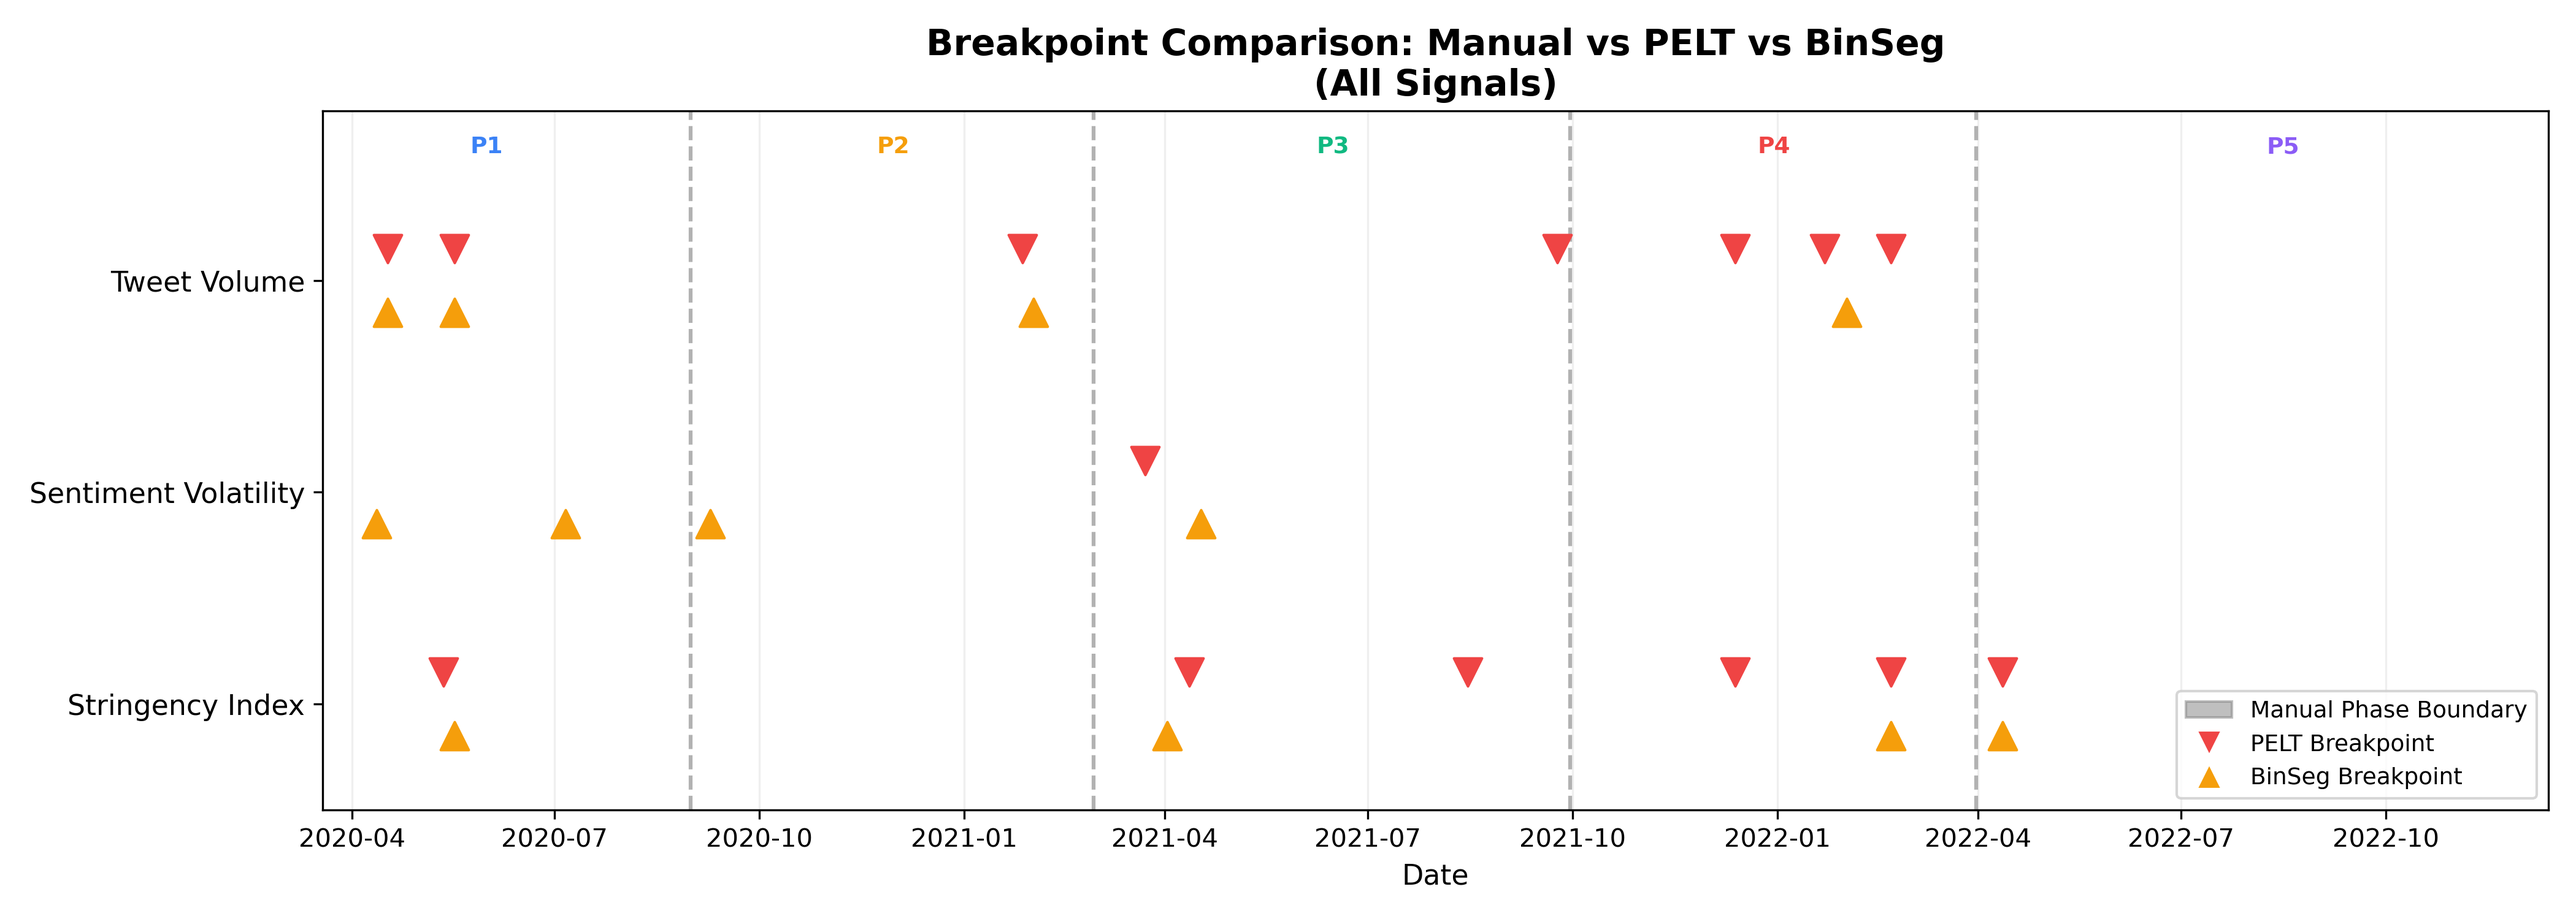
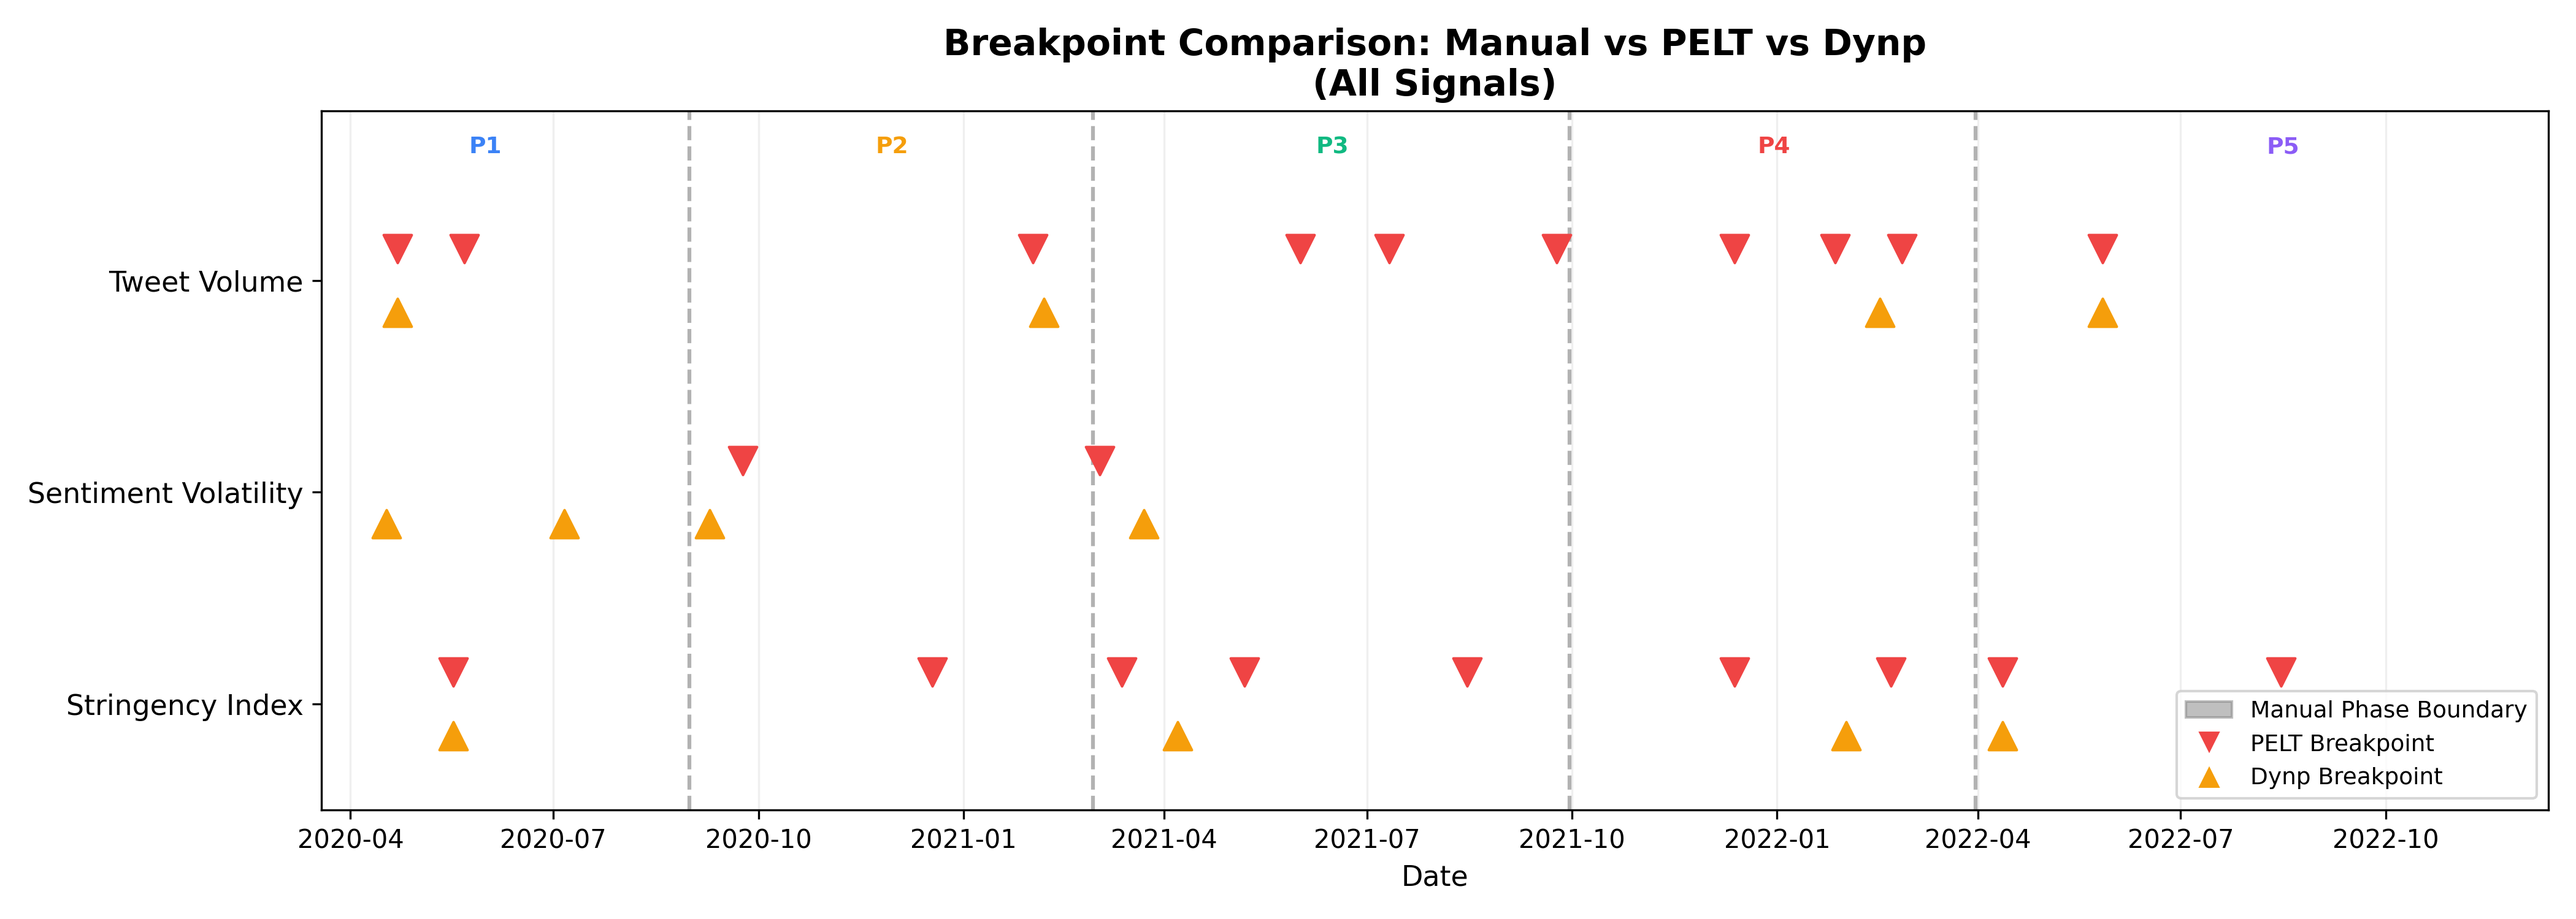
fixed kwargs

diff --git a/code/data_exp/partb.py b/code/data_exp/partb.py
@@ -43,22 +43,22 @@ PHASE_COLORS = ['#3b82f6', '#f59e0b', '#10b981', '#ef4444', '#8b5cf6']
 # algorithm — without this, day-of-week spikes and viral outliers dominate
 # the cost function and swamp the real regime shifts.
 # Volatility and stringency are already bounded, so left as-is.
-tv_filled   = df[volume_col].fillna(method='ffill')
+tv_filled   = df[volume_col].ffill()
 tv_smoothed = tv_filled.rolling(window=7, min_periods=1).mean().values
 tv_log      = np.log1p(tv_smoothed)
 
 # What gets fed to the changepoint algorithm
 detection_signals = {
     'Tweet Volume':          tv_log,
-    'Sentiment Volatility':  df[vol_col].fillna(method='ffill').values,
-    'Stringency Index':      df[policy_col].fillna(method='ffill').values,
+    'Sentiment Volatility':  df[vol_col].ffill().values,
+    'Stringency Index':      df[policy_col].ffill().values,
 }
 
 # What gets shown in the plots (original units, for readability)
 display_signals = {
     'Tweet Volume':          tv_smoothed,  # 7-day MA, raw units
-    'Sentiment Volatility':  df[vol_col].fillna(method='ffill').values,
-    'Stringency Index':      df[policy_col].fillna(method='ffill').values,
+    'Sentiment Volatility':  df[vol_col].ffill().values,
+    'Stringency Index':      df[policy_col].ffill().values,
 }
 
 # ── 4. PELT (penalty-tuned, number of breaks unknown a priori) ──────────────

diff --git a/code/data_exp/pattern_recogn.py b/code/data_exp/pattern_recogn.py
@@ -16,7 +16,7 @@ from sklearn.metrics import (classification_report, confusion_matrix,
                               ConfusionMatrixDisplay, roc_auc_score)
 
 # ── 1. LOAD DATA ──────────────────────────────────────────────────────────────
-df = pd.read_csv(Path(__file__).resolve().parents[1] / '.csv' / 'cleaned_sentiment_data.csv')
+df = pd.read_csv(Path(__file__).resolve().parents[2] / '.csv' / 'cleaned_sentiment_data.csv')
 print("Shape:", df.shape)
 print(df.head())
 
